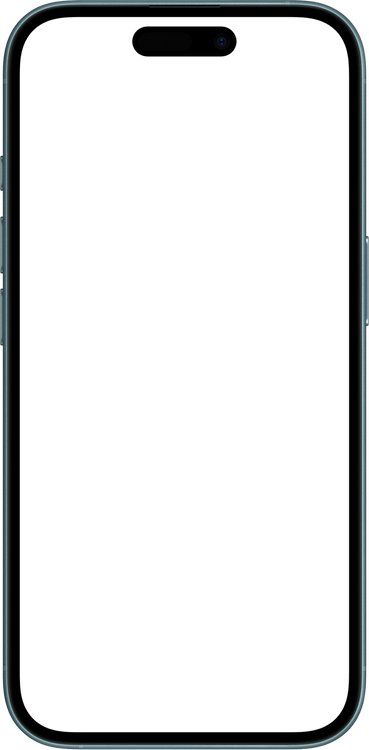
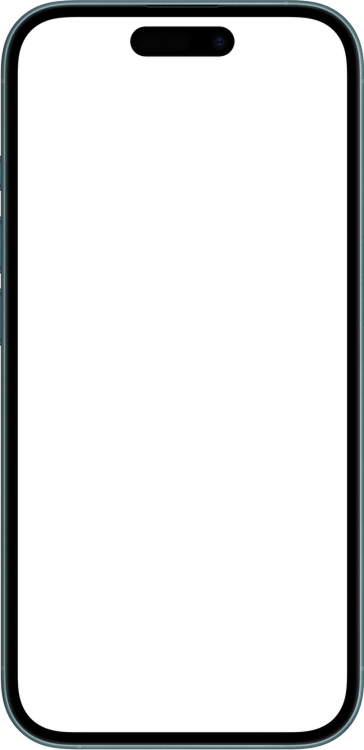
video size

Changed region(s): [[0.8462, 0.0, 1.0, 1.0], [0.0, 0.0, 0.1511, 1.0], [0.6346, 0.0307, 0.6648, 0.0613]]

diff --git a/src/Components/VideoTemplate/VideoTemplate.tsx b/src/Components/VideoTemplate/VideoTemplate.tsx
@@ -27,34 +27,6 @@ export default function VideoTemplate({ src }: VideoTemplateProps) {
     }
   };
 
-  // return (
-  //   <div className="video_frame">
-  //     {!isPlaying && (
-  //       <button
-  //         className="video_button"
-  //         onClick={togglePlay}
-  //         aria-label="Play video"
-  //       >
-  //         <span />
-  //       </button>
-  //     )}
-
-  //     <video
-  //       ref={videoRef}
-  //       className={`video_template ${!isPlaying ? 'video_template--paused' : ''}`}
-  //       autoPlay
-  //       loop
-  //       muted
-  //       playsInline
-  //       preload="metadata"
-  //       onClick={togglePlay}
-  //     >
-  //       <source src={src} type="video/mp4" />
-  //       Your browser does not support the video tag.
-  //     </video>
-  //   </div>
-  // );
-
   return (
   <div className="video_frame">
     <div className="video_mask">

diff --git a/src/Styles/Modules/Video.sass b/src/Styles/Modules/Video.sass
@@ -49,8 +49,9 @@
   position: relative
 
   width: min(80vw, 320px)
-  aspect-ratio: 369 / 750
+  aspect-ratio: 364 / 750
 
+  border-radius: 62px
   display: flex
   align-items: center
   justify-content: center
@@ -60,12 +61,14 @@
 .video_mask
   position: relative
 
-  width: 88%
-  height: 96%
+  width: 90%
+  height: 95%
+  aspect-ratio: 327 / 713
 
   // border-radius: clamp(32px, 8vw, 64px)
   overflow: hidden
   background: black
+  border-radius: 44px
 
 .video_template
   width: 100%
@@ -79,8 +82,6 @@
 
   &--paused
     filter: brightness(0.7)
-
-
 
 
 .video_frame::before
@@ -98,10 +99,6 @@
   .video_frame
     width: 90vw
 
-
-
 @media (min-width: 1024px)
   .video_frame
     width: 280px
-
-
